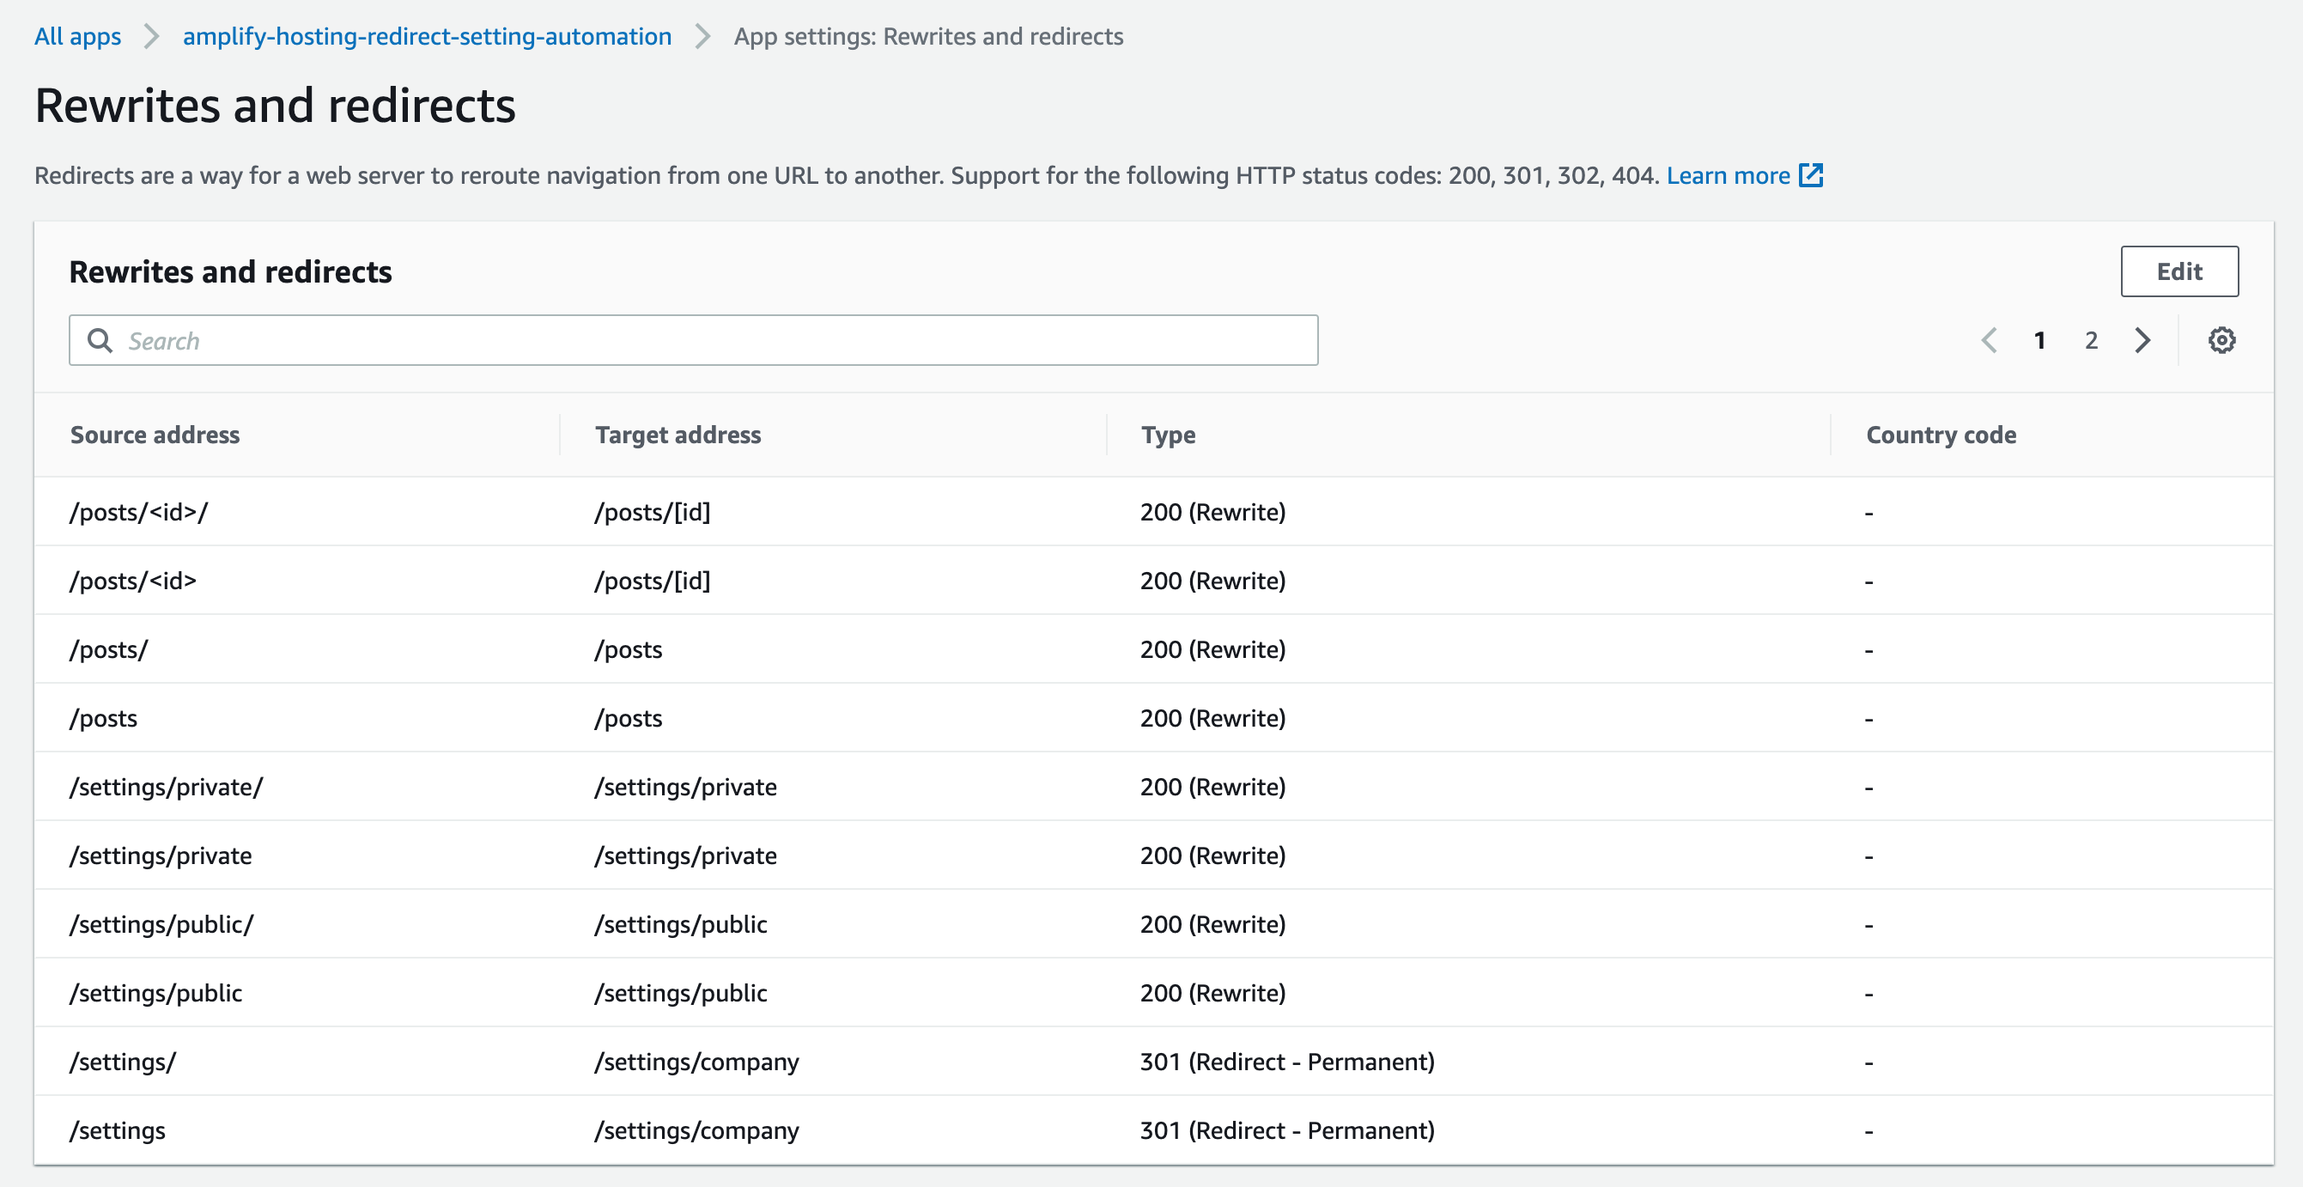
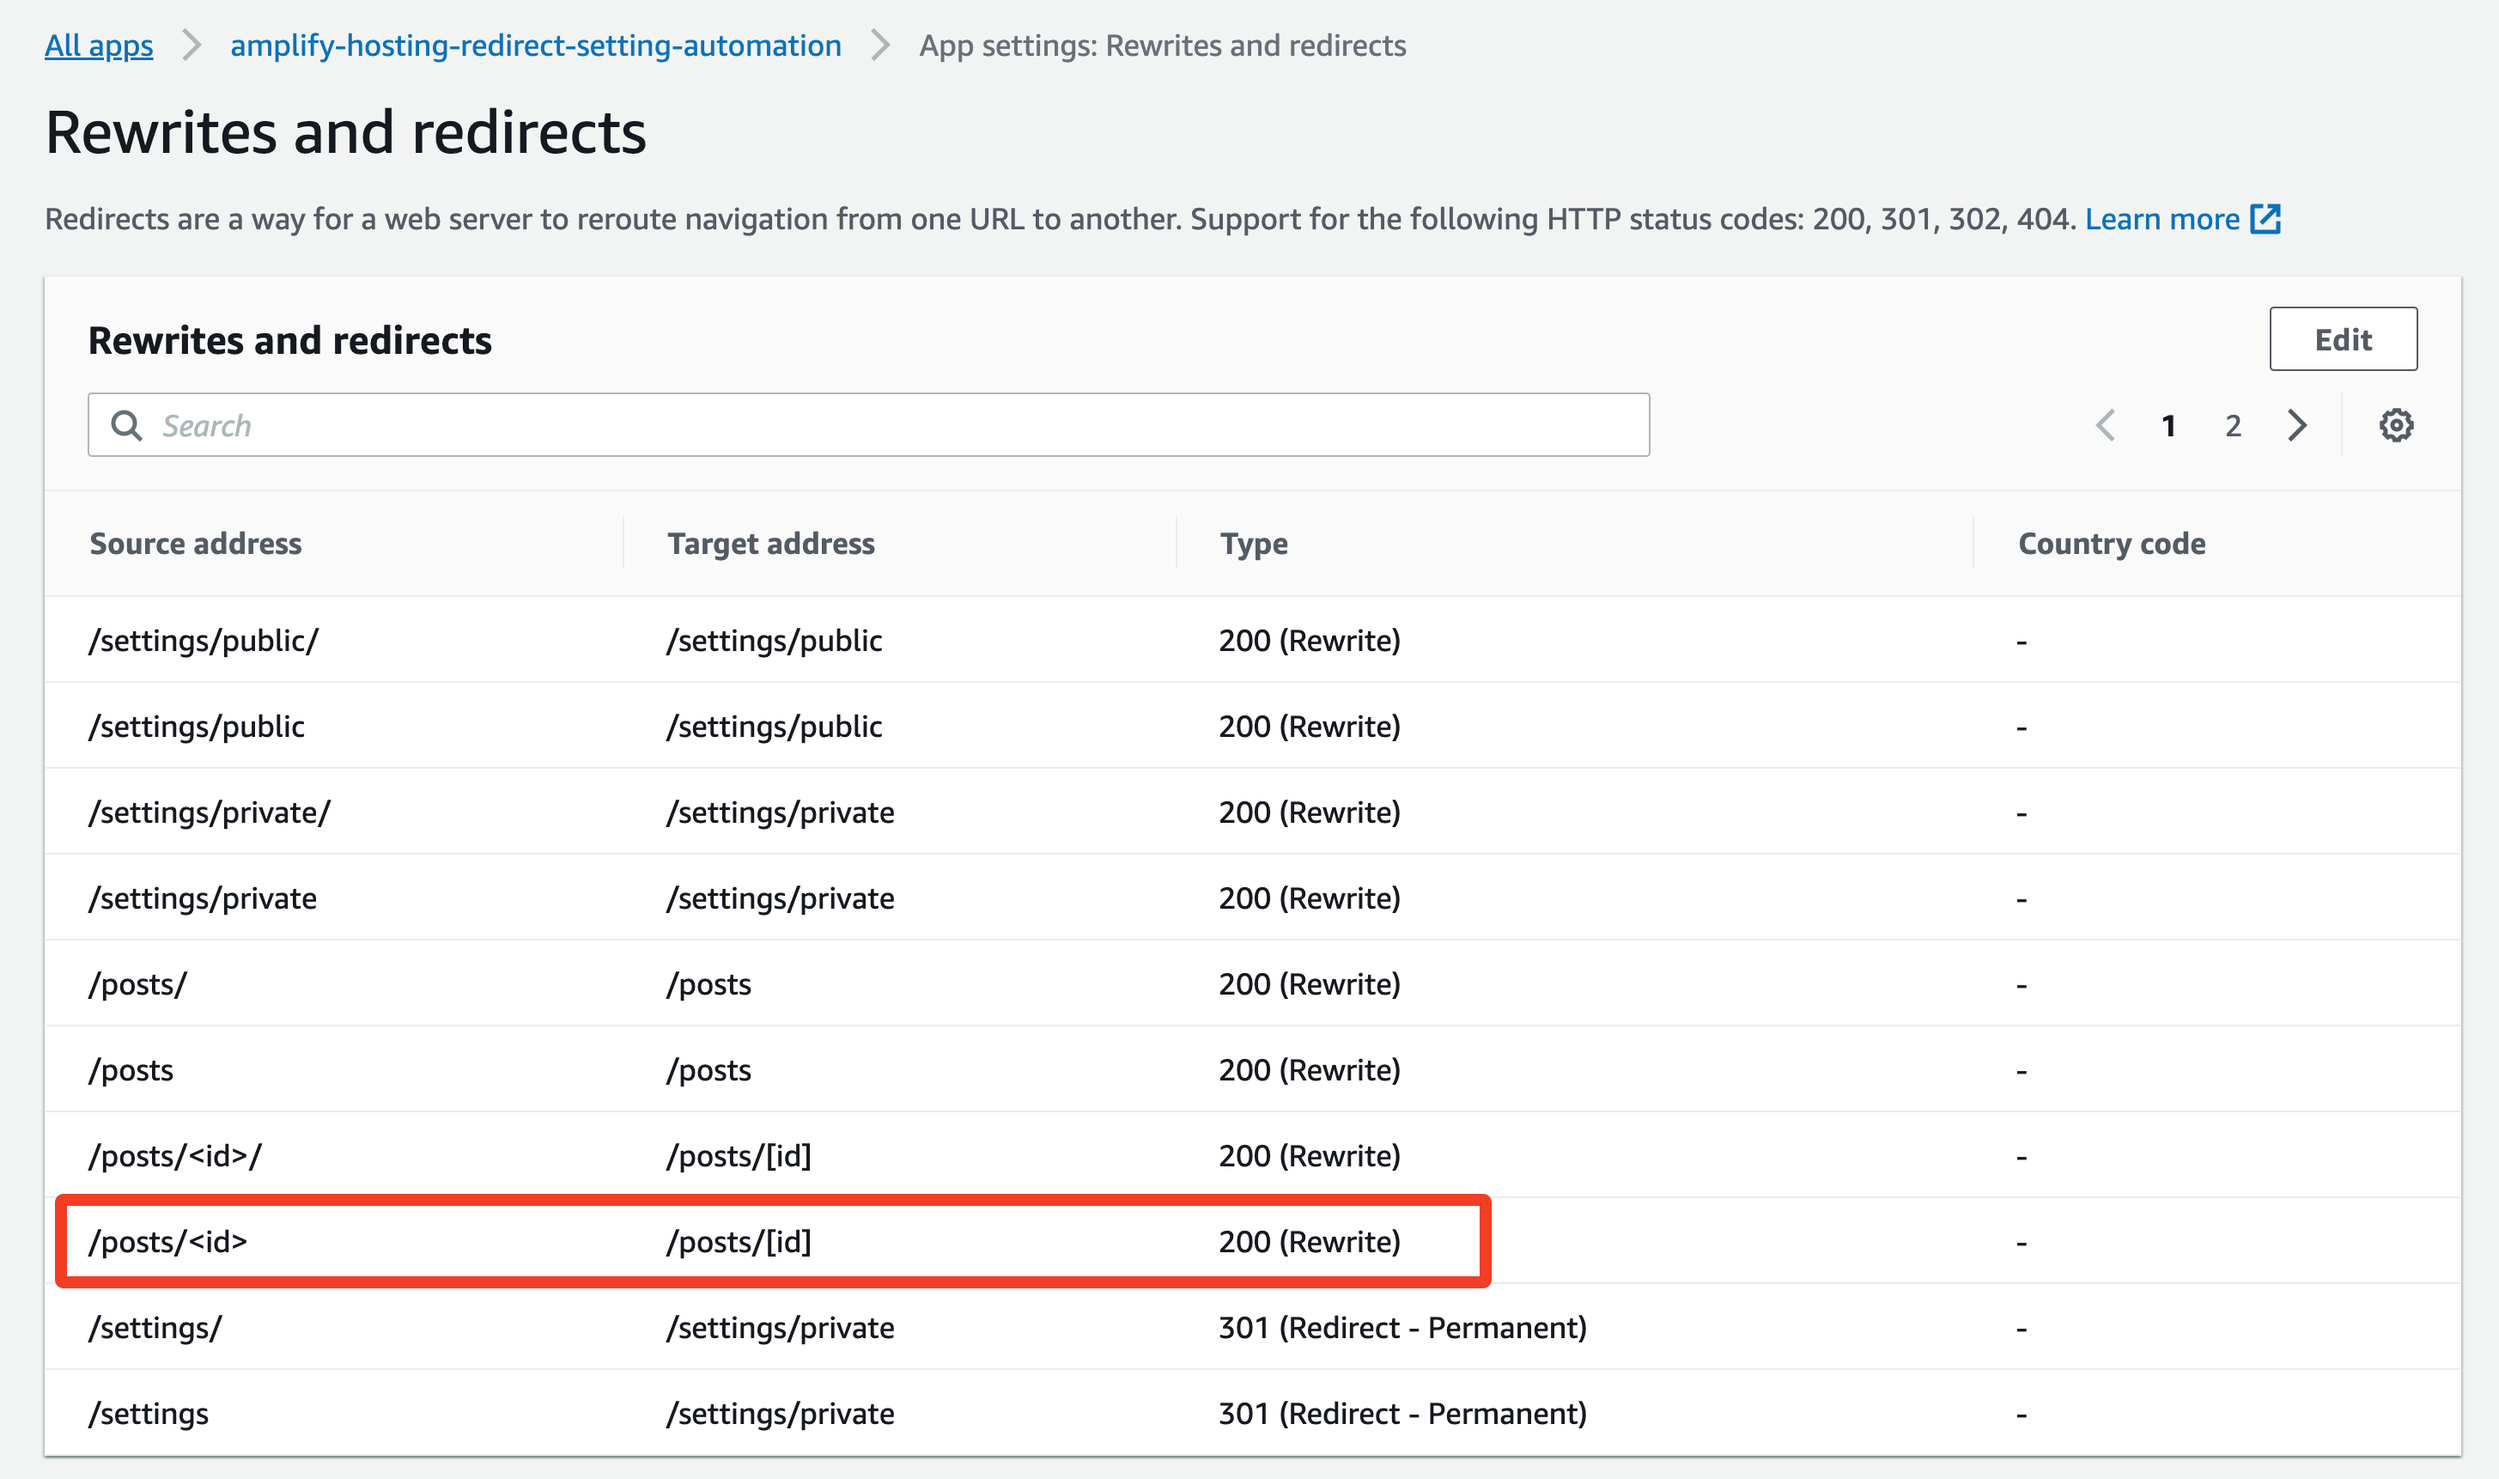
add why need redirect setting

diff --git a/articles/redirect-settings-automation-on-amplify-hosting.md b/articles/redirect-settings-automation-on-amplify-hosting.md
@@ -19,14 +19,81 @@ Next.js の Dynamic Routes を使ったアプリケーションを Amplify Hosti
 https://github.com/jaga810/amplify-hosting-redirect-setting-automation
 
 # Dynamic Routes に必要なリダイレクト設定
-具体的には下記のようなリダイレクト設定が必要です
 
-![](/images/redirect-settings-automation-on-amplify-hosting/redirect-setting.png)
+## リダイレクト設定を行わない場合どうなるか？
+以下では [jaga810/amplify-hosting-redirect-setting-automation](https://github.com/jaga810/amplify-hosting-redirect-setting-automation) のルートディレクトリで作業しているものとします
 
-`pages` 配下にページを足す度、リダイレクト設定を追加していく必要があります
+```bash
+$ tree pages
+pages
+├── _app.tsx
+├── _document.tsx
+├── index.tsx
+├── posts
+│   ├── [id]
+│   │   └── index.tsx
+│   └── index.tsx
+└── settings
+    ├── private
+    │   └── index.tsx
+    └── public
+        └── index.tsx
+```
+
+`pages/[id]/index.tsx` の部分が Dynamic Routes を利用している部分になります
+build を実行します
+
+```bash
+npm run build # next build && next export
+```
+
+out ディレクトリに以下のようなファイル群が生成されます
+
+```bash
+$ tree out -P *.html -I _next
+out
+├── 404.html
+├── index.html
+├── posts
+│   └── [id].html
+├── posts.html
+└── settings
+    ├── private.html
+    └── public.html
+```
+
+これを Amplify Hosting でホストし、`/posts/123` のようなパスにアクセスすると、以下のように `/404.html` にリダイレクトされてしまいます
+
+![404にリダイレクトされる様子](/images/redirect-settings-automation-on-amplify-hosting/404.png)
+
+`/posts/123` にアクセスを試みても、実際にホストされているファイルは `posts/[id].html` であって `posts/123.html` ではありません
+そのため、リクエストパスに該当するファイルが見つからず、404 ページにリダイレクトされてしまうのです
+
+この問題を回避するためにはどうしたら良いのでしょうか？
+
+## Dynamic Routes のためのリダイレクト設定
+上述の問題を回避するためには、下記のようなリダイレクト設定が必要です
+
+![リダイレクト設定の例](/images/redirect-settings-automation-on-amplify-hosting/redirect-setting.png)
+
+これは `/posts/<id>` (`<id>`は任意の文字列)にマッチするリクエストを、`/posts/[id]` にリダイレクトする、という設定です
+たとえば `/posts/123` へのリクエストが `/posts/<id>` にマッチしてリダイレクトされ、 `/posts/[id].html` がユーザーに返されることになります
+
+Amplify Hosting のリダイレクト設定において、`<id>` はプレイスホルダーと呼ばれています
+
+![リダイレクト設定におけるプレイスホルダー](/images/redirect-settings-automation-on-amplify-hosting/redirect-placeholder.png)
+[リダイレクトを使用する - AWS Amplifyホストする](https://docs.aws.amazon.com/ja_jp/amplify/latest/userguide/redirects.html#placeholders)
+
+今回の用途のように、特定のパス構造でファイルが見つからない場合にリダイレクトをかけたい場合にプレイスホルダーが重宝します
+また、プレイスホルダーは変数のように扱うことができ、リダイレクト先を動的に指定することもできます
+
+
+## 毎回手作業は辛いよ...
+
+このように、`pages` 配下に Dynamic Routes を利用するページを足す度、Amplify Hosting のリダイレクト設定を追加していく必要があります
 手動で更新するとどうしてもヒューマンエラーが起こってしまいますし、何より面倒です
 
-こうした定型作業は自動化するに限りますね！
+定型作業は自動化しちゃいましょう！
 
 
 # 自動化
@@ -50,11 +117,11 @@ https://github.com/jaga810/amplify-hosting-redirect-setting-automation/blob/main
 手元で実行する場合は以下のコマンドを実行します
 
 ```bash
-chmod +x update_amplify_redirect_setting.sh
+chmod +x update_amplify_redirect_setting.sh 
 ./update_amplify_redirect_setting.sh
 ```
 
-AWS CLI がインストールされていない環境の場合は以下のようなエラーが出ますが、リダイレクト設定の JSON ファイル自体は出力されるので無視いただいて結構です
+AWS CLI がインストールされていない環境の場合は以下のようなエラーが出ますが、リダイレクト設定の JSON ファイル自体は出力されるので無視いただいて大丈夫です
 
 ```bash
 ./update_amplify_redirect_setting.sh: line 97: /usr/local/bin/aws: No such file or directory
@@ -65,7 +132,7 @@ AWS CLI がインストールされていない環境の場合は以下のよう
 
 ### `amplify.yml`
 Amplify Hosting では、アプリケーションのルートディレクトリ直下に `amplify.yml` を置くことでビルド設定をカスタマイズできます
-[参考](https://docs.aws.amazon.com/ja_jp/amplify/latest/userguide/build-settings.html)
+[ビルド設定の構成 - AWS Amplifyホストする](https://docs.aws.amazon.com/ja_jp/amplify/latest/userguide/build-settings.html)
 
 
 https://github.com/jaga810/amplify-hosting-redirect-setting-automation/blob/main/amplify.yml#L11-L13
